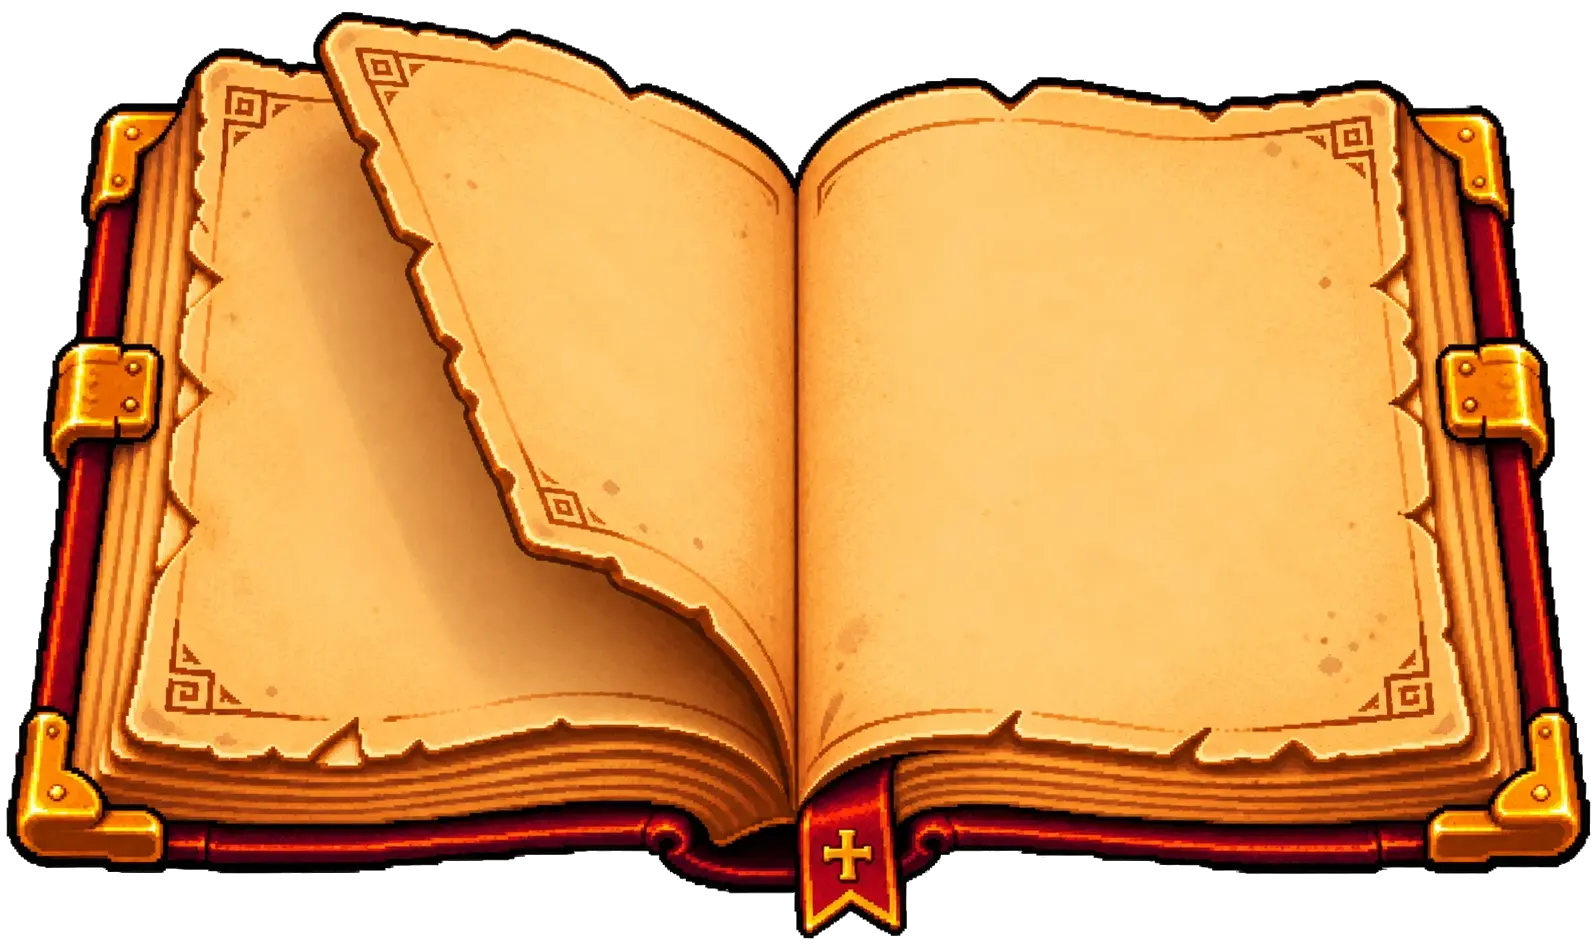
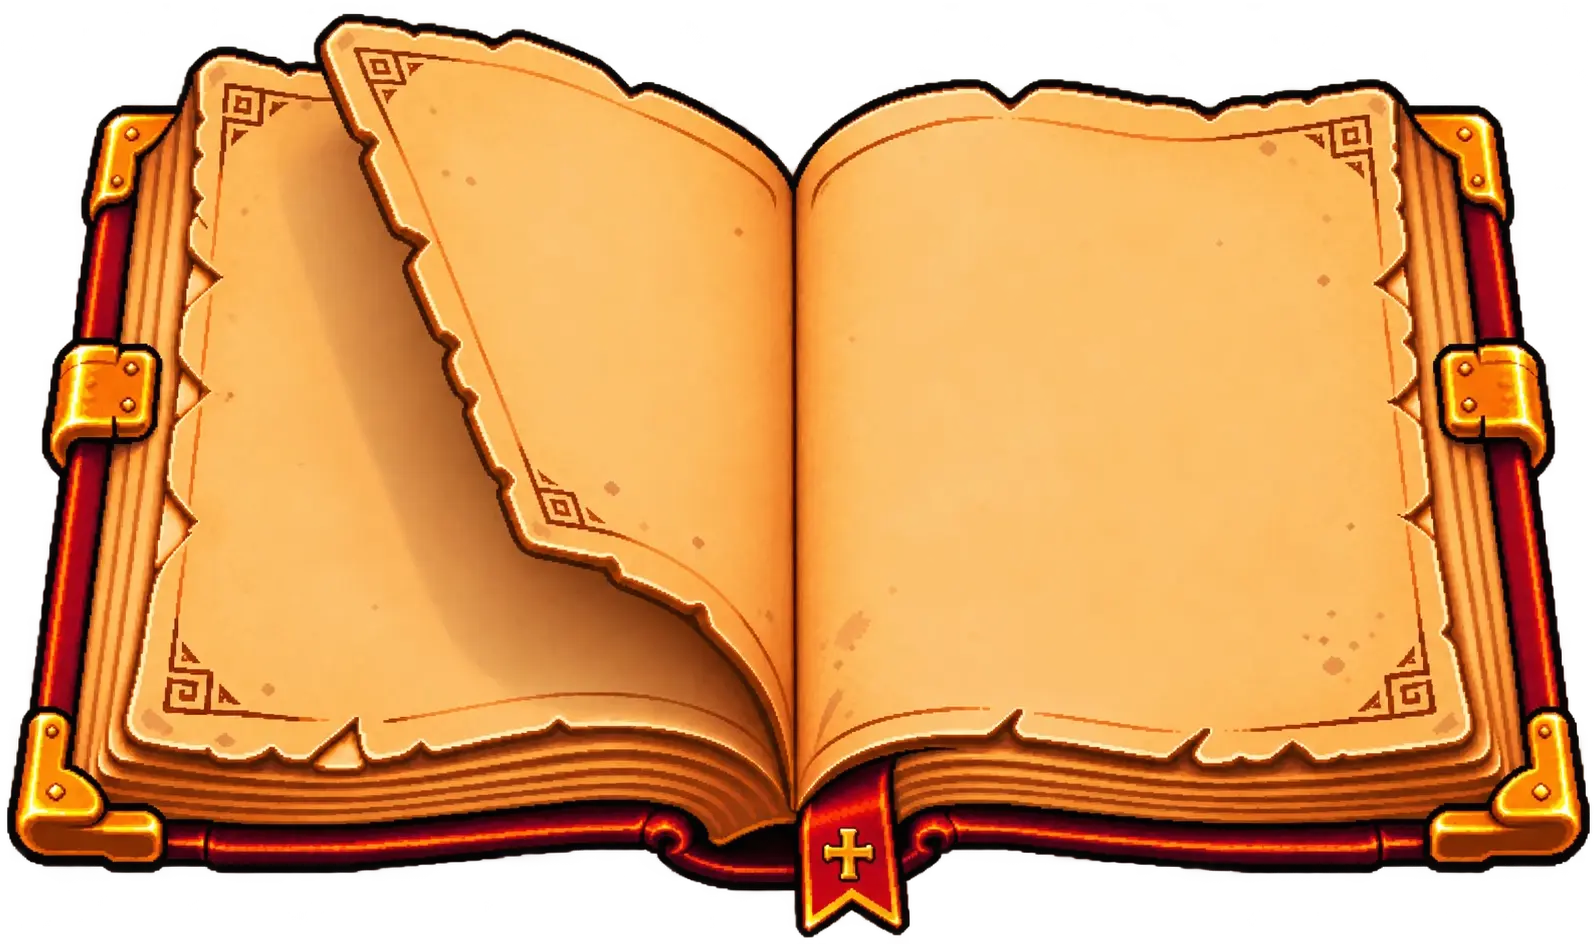
Addestramento: nuovi fotogrammi del giro di pagina senza sfondo
Il libro fermo sparisce durante il giro, così non si vede il doppio contorno.

Claude-Session: https://claude.ai/code/session_01Ly8M64WoiNxbZKkFq6qyb5

diff --git a/css/pixel.css b/css/pixel.css
@@ -5754,7 +5754,11 @@ a.mis-lv:hover { color: #2a1608; background: #ffc24a; }
     width: 100.504%;
     height: 101.944%;
     pointer-events: none;
+    filter: drop-shadow(0 calc(14 * var(--k)) 0 rgba(0, 0, 0, 0.5));
 }
+
+/* Durante il giro il libro fermo sparisce: c'è solo il fotogramma */
+.lib-view.is-flipping .lib-bookimg { visibility: hidden; }
 
 .lib-flip[hidden] { display: none; }
 
